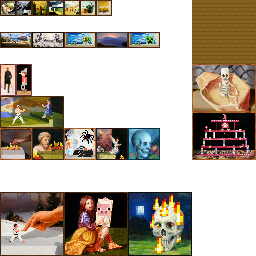
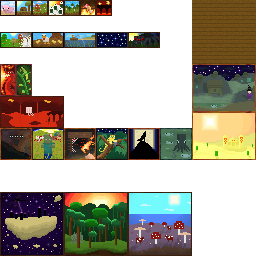
Add custom paintings by Pig_Rider

diff --git a/README.md b/README.md
@@ -13,4 +13,5 @@ Supports Optifine/MCPatcher features such as *Connected Textures*, *Custom Color
 * [gsand](https://oc.tc/gsand): Some tweaked vanilla textures
 * Zebragrrl: [Stevian Villagers](http://www.minecraftforum.net/topic/1016007-16x151-stevian-villagers-new-download-link-422013/)
 * Enchilado: [Potion Effect Icons](http://www.minecraftforum.net/topic/1547673-16%C3%97151-rakepack-default-revamped-heavily-revised-icons-with-minimal-block-tweaks/)
+* [Pig_Rider](http://www.reddit.com/user/Pig_Rider): Amazing custom paintings!
 
